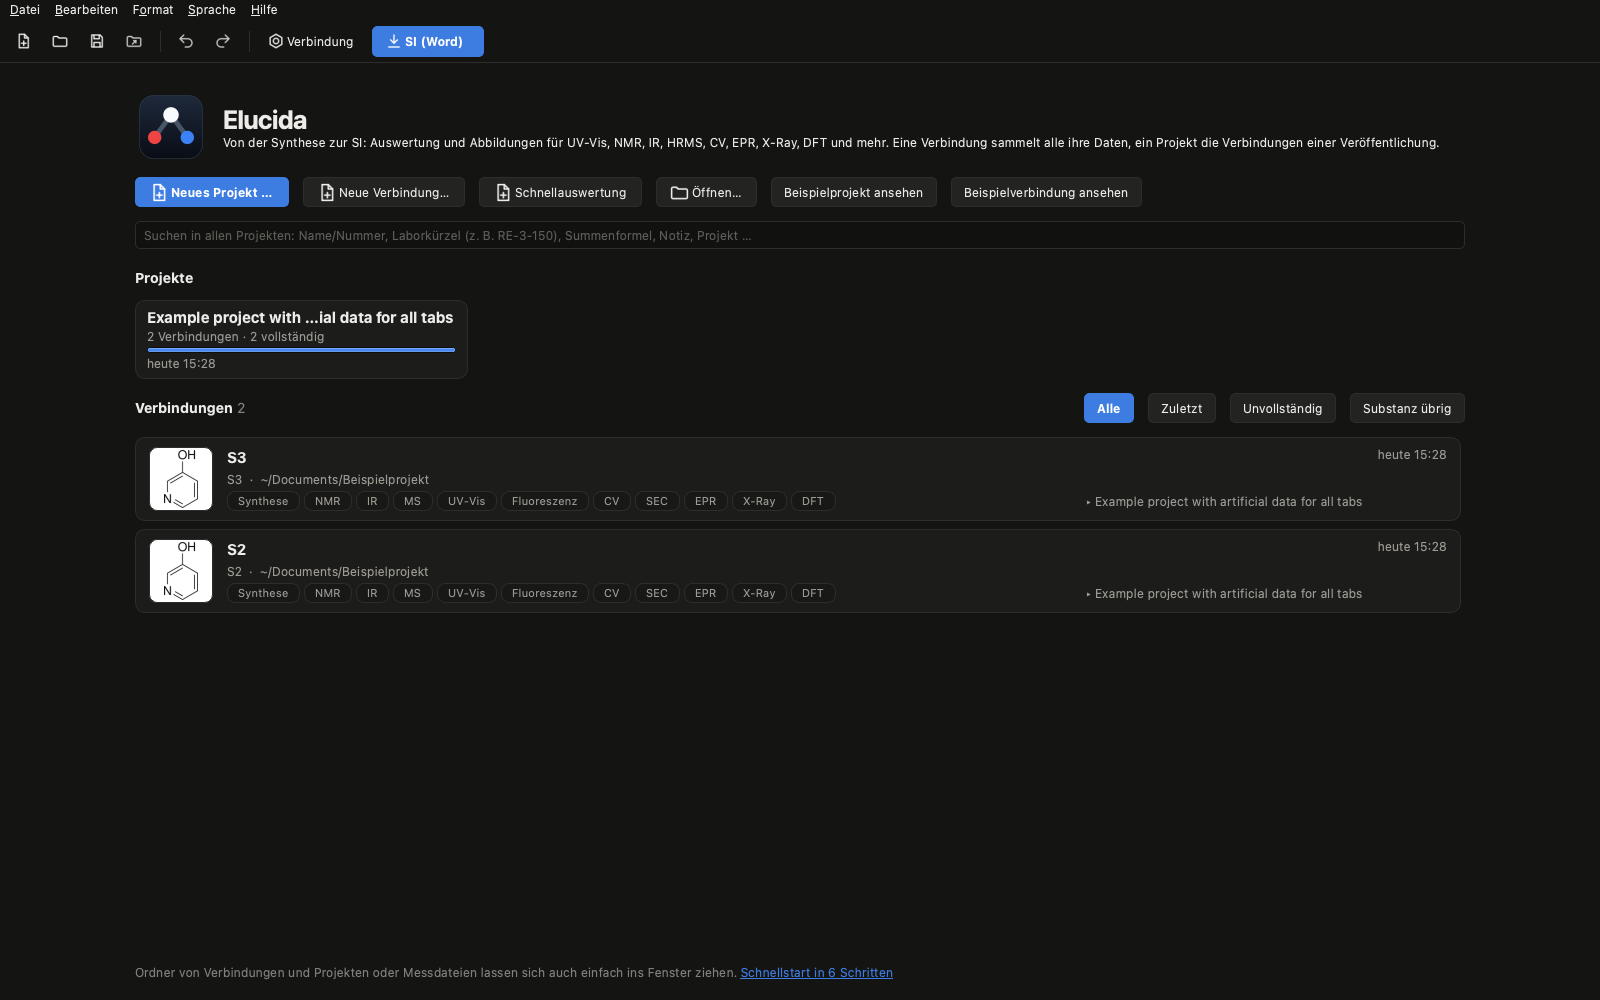
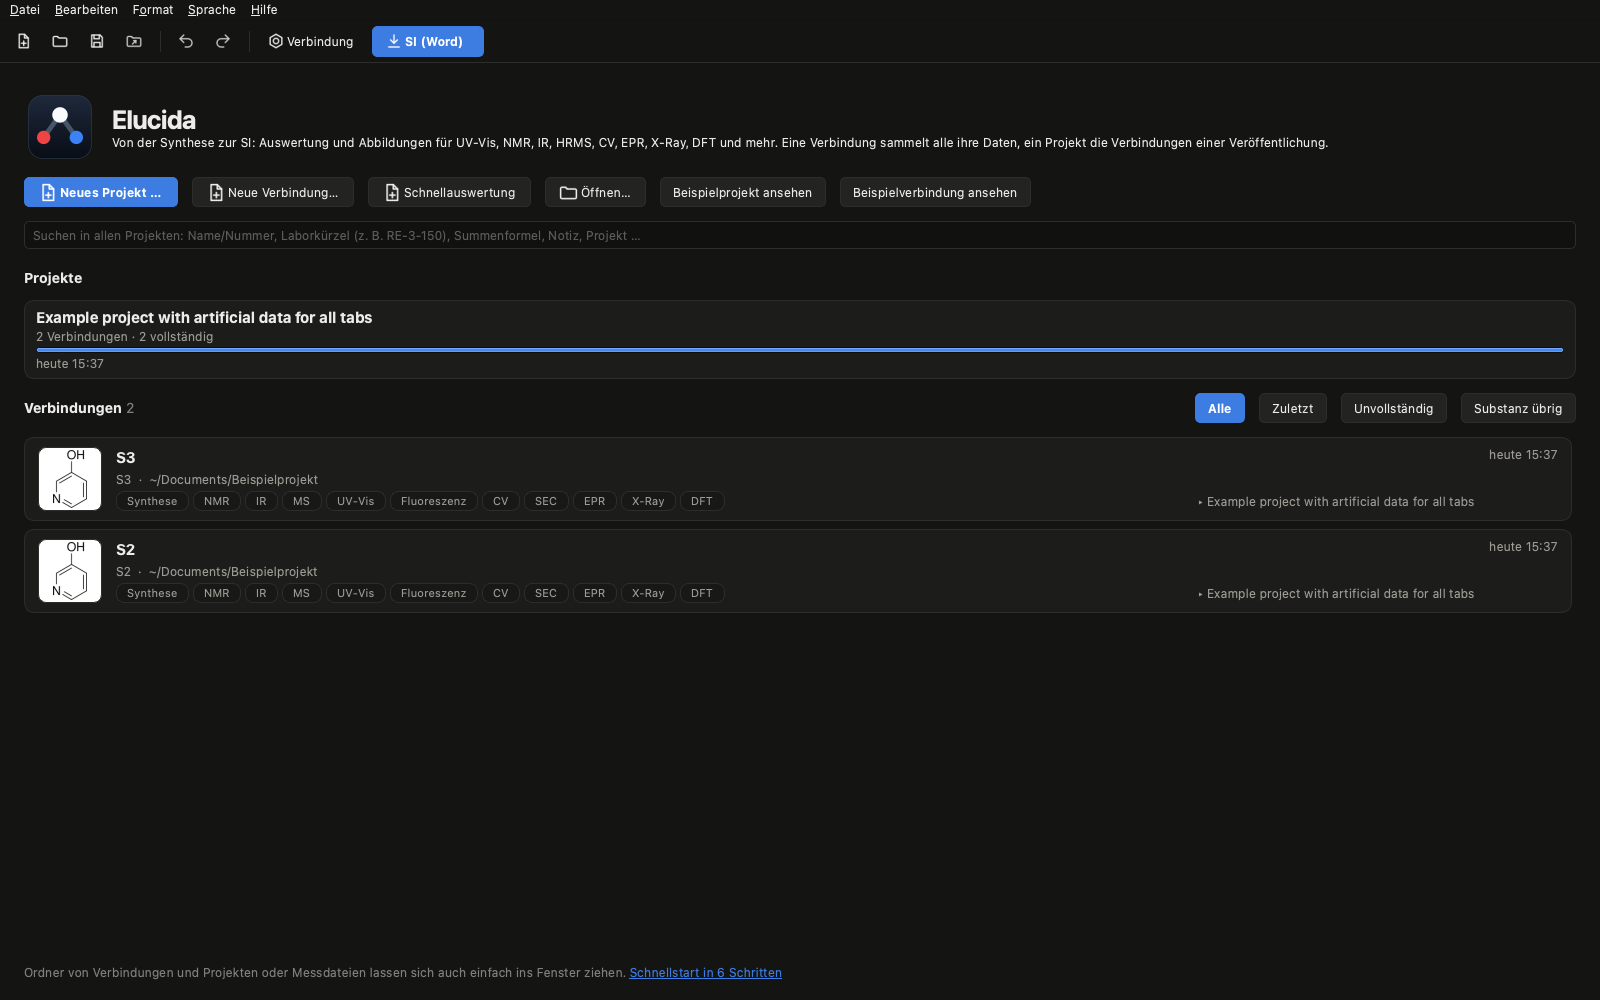
release: 2.4.0 – start screen fills the whole window width
Project tiles and compound rows use the full width (no maximum column width);
tiles stretch across their row (one project = full-width tile).

diff --git a/elucida/app/main_window.py b/elucida/app/main_window.py
@@ -1827,7 +1827,6 @@ class MainWindow(QMainWindow):
         outer = QHBoxLayout(page)
         outer.setContentsMargins(24, 28, 24, 20)
         col = QWidget()
-        col.setMaximumWidth(1500)                   # wächst mit dem Fenster (FB-1), bleibt auf großen Schirmen lesbar
         v = QVBoxLayout(col)
         v.setContentsMargins(0, 0, 0, 0)
         v.setSpacing(14)
@@ -1923,9 +1922,7 @@ class MainWindow(QMainWindow):
         hint.setOpenExternalLinks(True)
         hint.setStyleSheet(HINT_CSS)
         v.addWidget(hint)
-        outer.addStretch(1)
-        outer.addWidget(col, 12)
-        outer.addStretch(1)
+        outer.addWidget(col, 1)                         # füllt die ganze Breite (Robin, 2.4.0)
         self.recent_rows = []
         self.pub_rows = []
         self.fill_recent_list()
@@ -1962,8 +1959,9 @@ class MainWindow(QMainWindow):
             row.customContextMenuRequested.connect(lambda pos, r=row: self._pub_menu(r, pos))
             self.pub_box.addWidget(row, k // PUB_TILE_COLS, k % PUB_TILE_COLS)
             self.pub_rows.append(row)
+        used = max(1, min(len(shown), PUB_TILE_COLS))   # Kacheln füllen die Reihe (eine Kachel = ganze Breite)
         for c in range(PUB_TILE_COLS):
-            self.pub_box.setColumnStretch(c, 1)
+            self.pub_box.setColumnStretch(c, 1 if c < used else 0)
         self.lbl_pubs.setText(f"<b>{T('welcome_publications')}</b>")
         self.lbl_pubs.setVisible(bool(pubs))
         self.btn_pubs_all.setVisible(len(pubs) > 2 * PUB_TILE_COLS)
